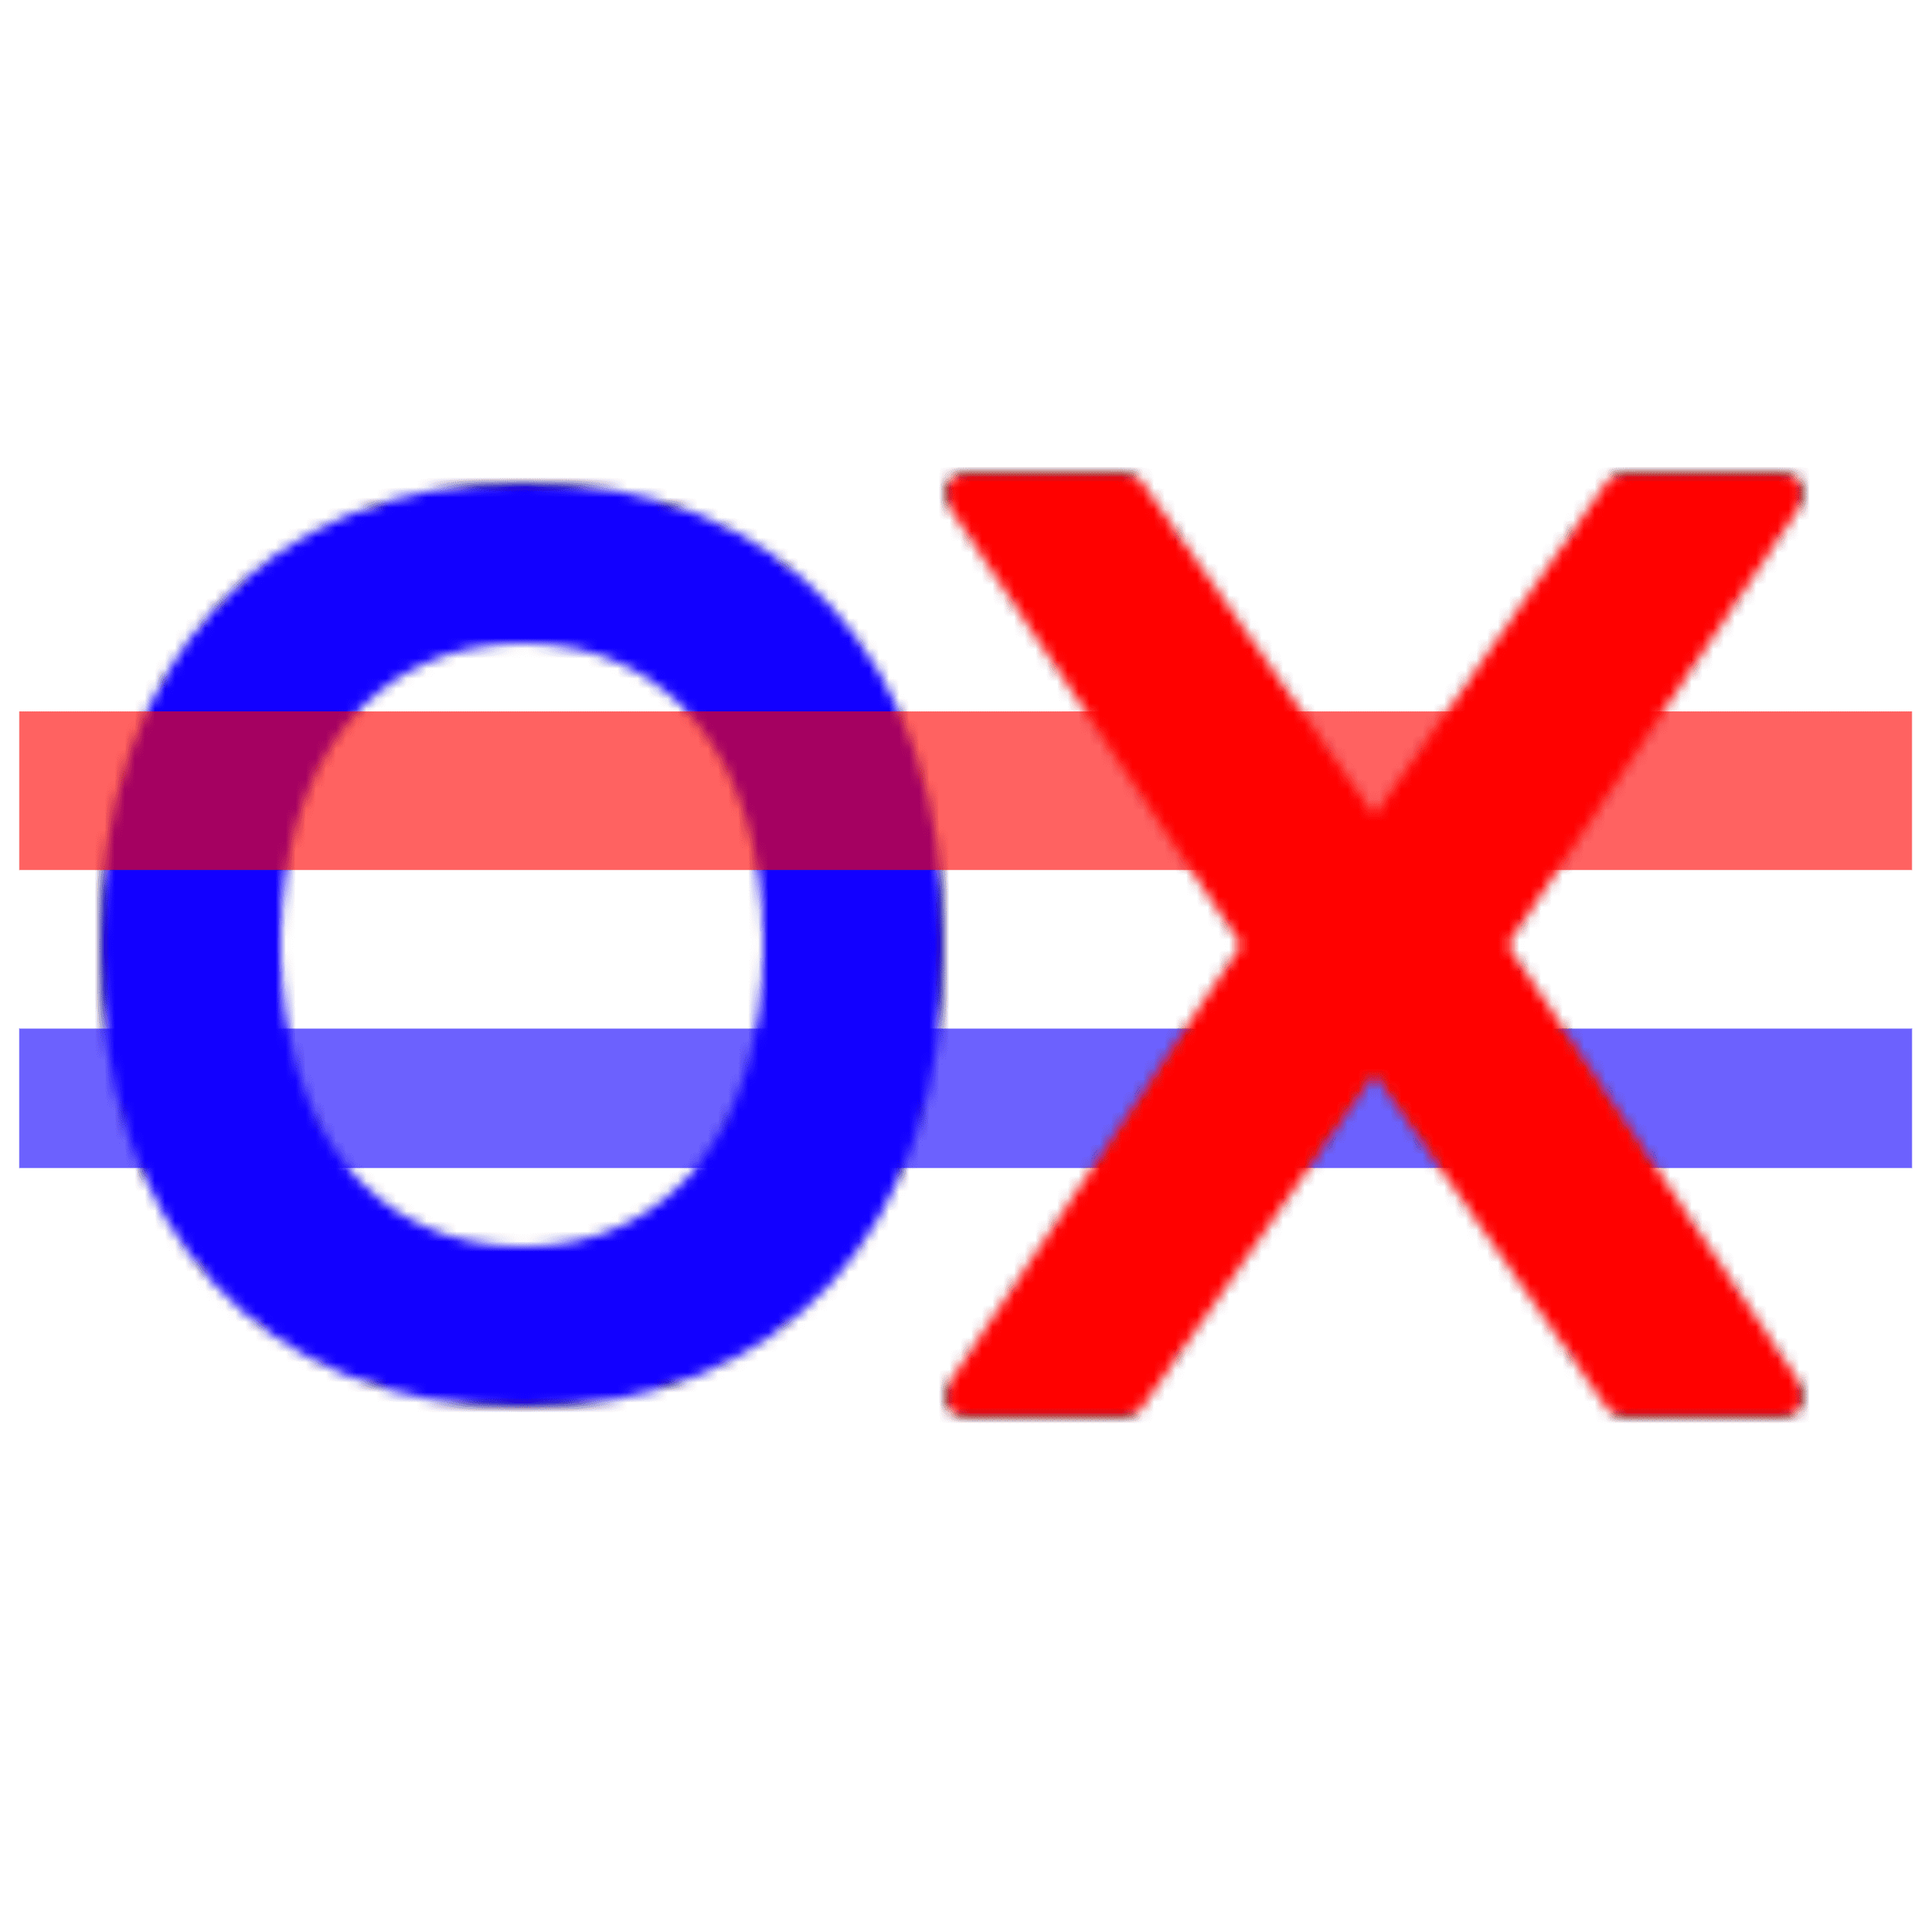
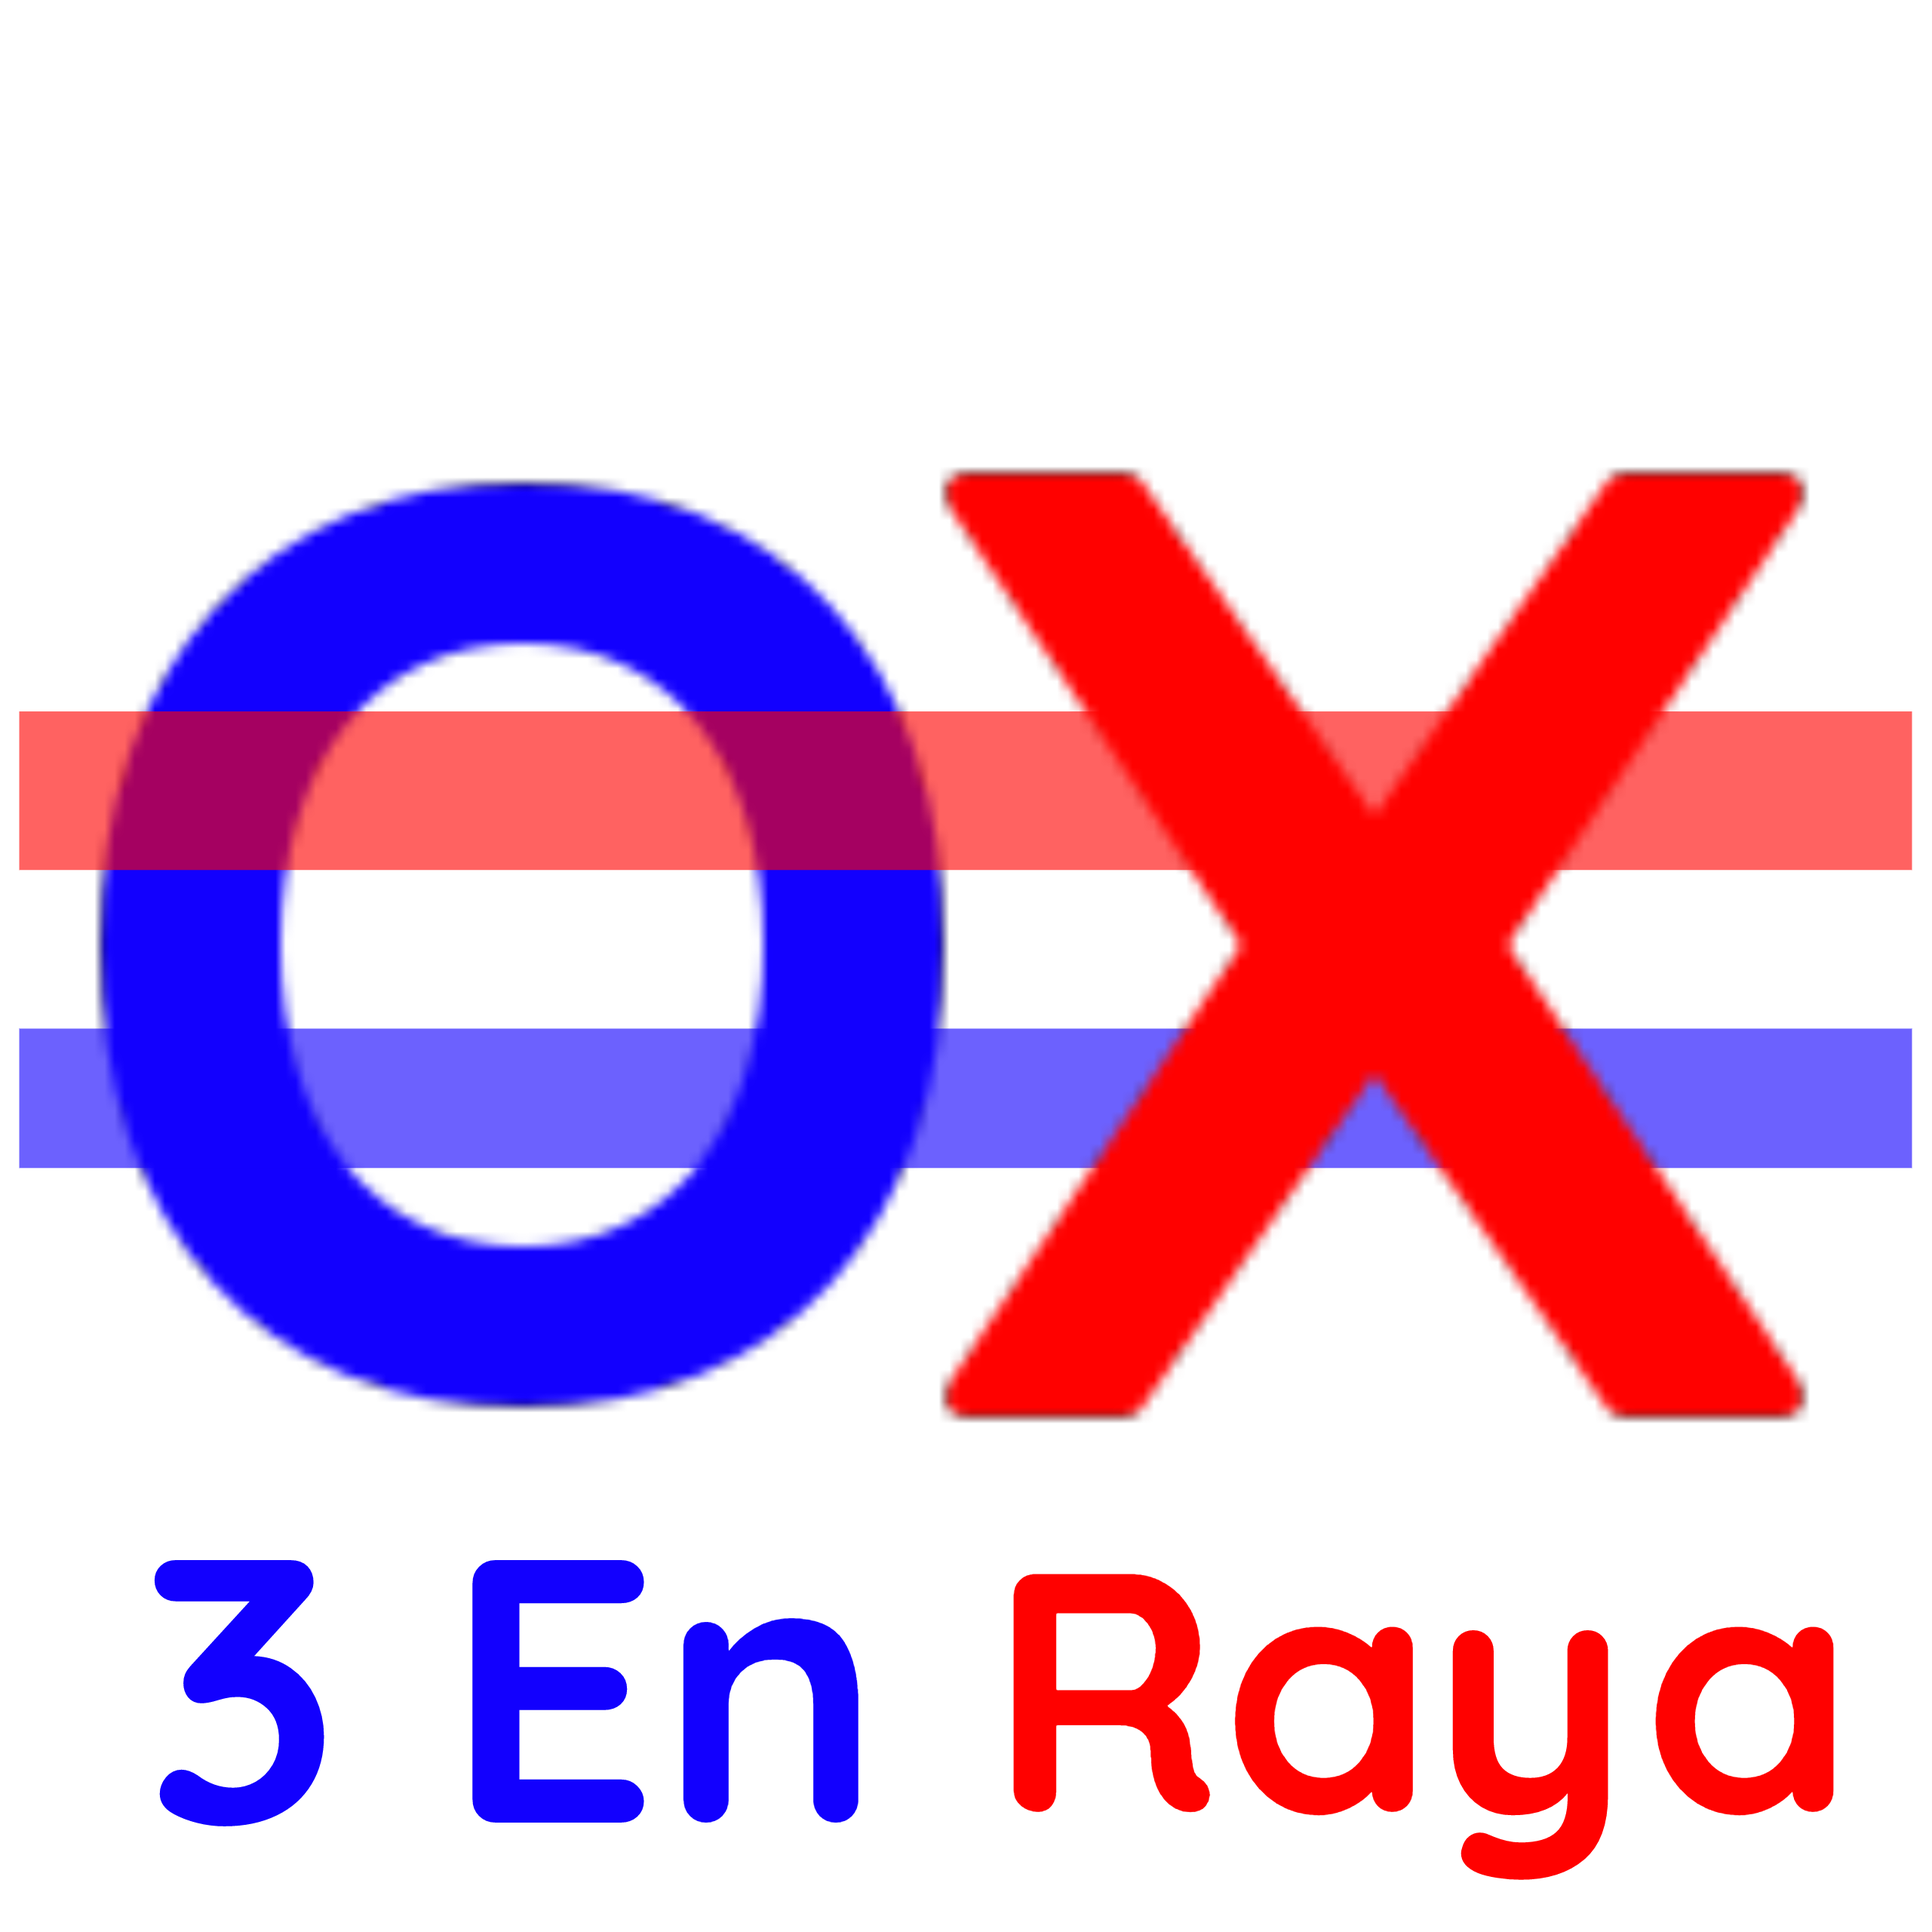
icono nuevo

Changed region(s): [[0.4998, 0.8122, 0.9684, 0.9996], [0.2187, 0.7809, 0.4686, 0.9684], [0.0625, 0.7809, 0.1874, 0.9684]]

diff --git a/src/app/page.jsx b/src/app/page.jsx
@@ -43,8 +43,8 @@ function App() {
 
       <div className={Style.conteinerMenu}>
         <img width={200} src="./icon.png" alt="logo" />
-        <h1>3 en raya!</h1>
-        <p>Revive la nostalgia del juego clásico que todos alguna vez disfrutamos en las aulas, ahora en una experiencia digital.</p>
+
+        <p style={{width:'400px'}}>Revive la nostalgia del juego clásico que todos alguna vez disfrutamos en las aulas, ahora en una experiencia digital.</p>
         <div id={Style.first} class={Style.buttonBox}>
           <button className='' onClick={comfirmHandler}>Jugar!</button>
         </div>

diff --git a/src/app/page.module.css b/src/app/page.module.css
@@ -4,15 +4,15 @@
     align-items: center;
     text-align: center;
 }
+.darkConteiner{
+    color: white;
+    background-color: rgb(20, 20, 20);
+    height: 110vh;
+}
 #temeImg{
     margin: 10px;
     width: 50px;
     cursor: pointer;
-}
-.darkConteiner{
-    color: white;
-    background-color: rgb(20, 20, 20);
-    height: 100vh;
 }
 
 .buttonBox button {
